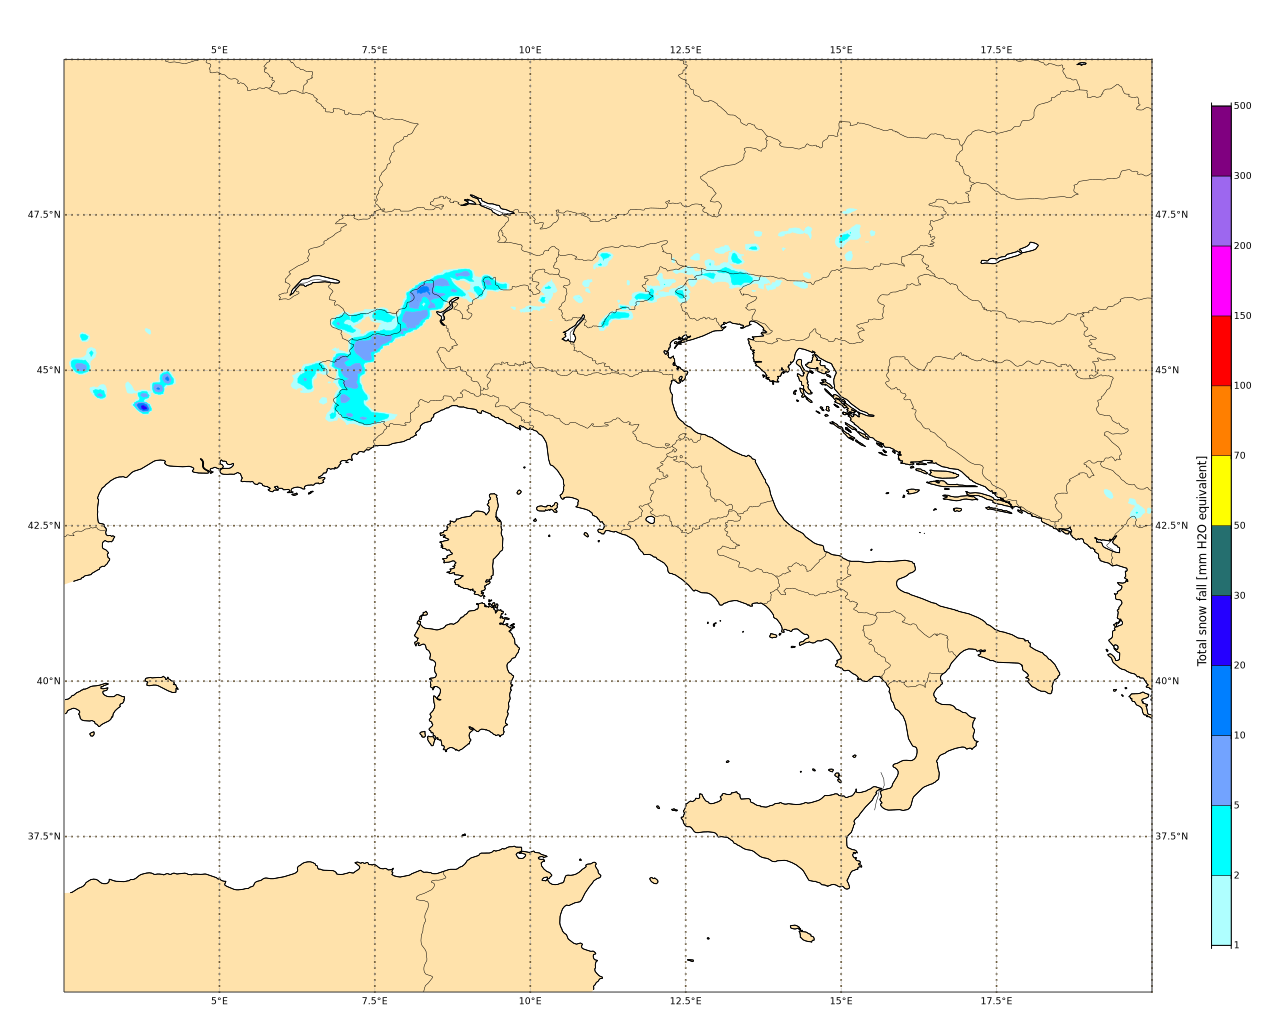
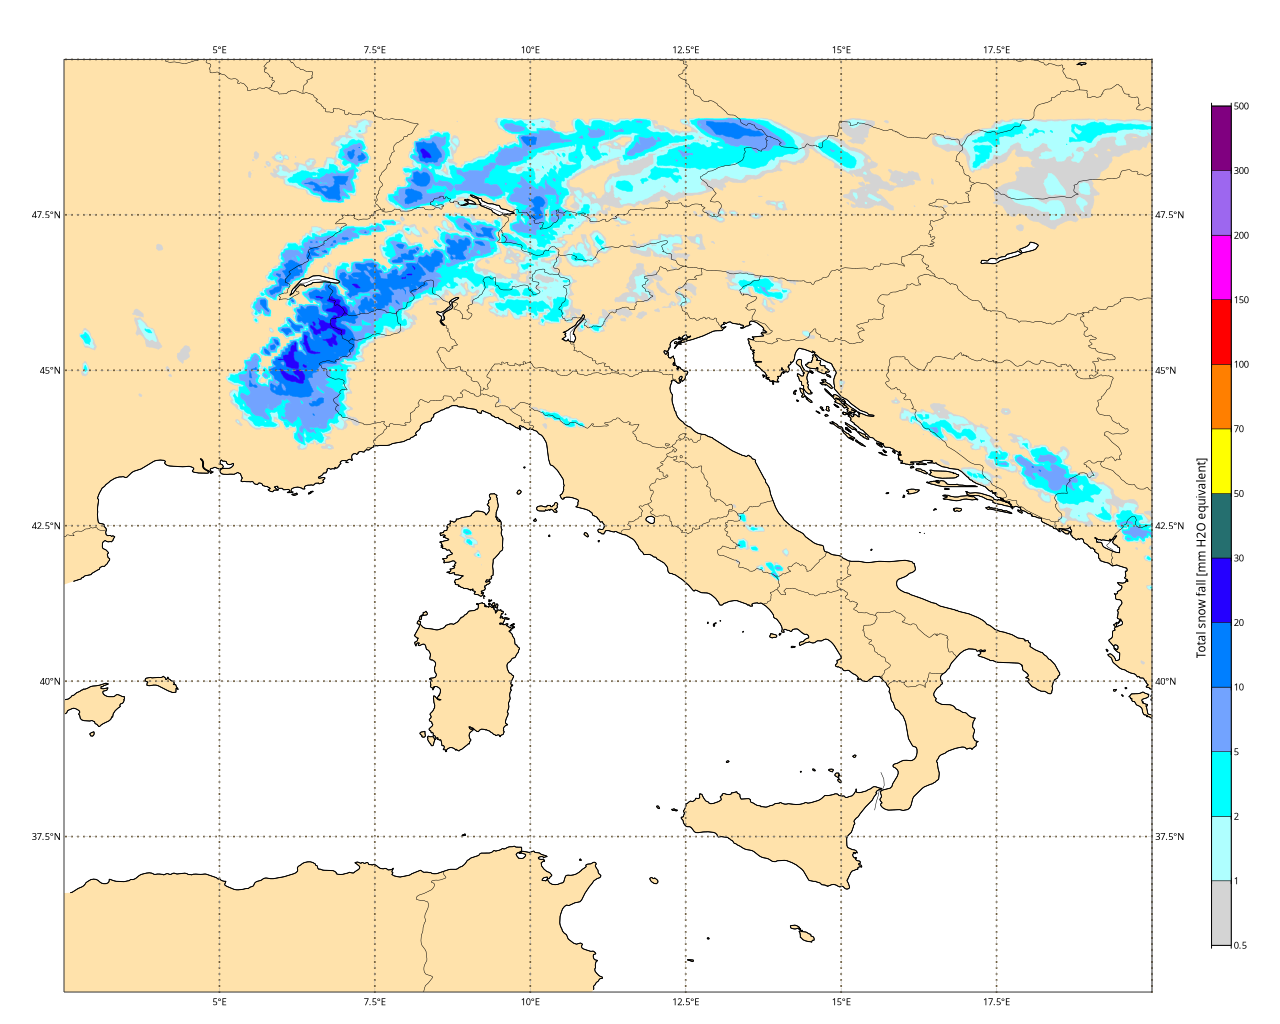
updated contouring for snow fall

diff --git a/doc/recipes/sf1h.md b/doc/recipes/sf1h.md
@@ -81,8 +81,9 @@ With arguments:
     "contour_shade": "on",
     "contour_shade_colour_method": "list",
     "contour_shade_method": "area_fill",
-    "contour_shade_min_level": 0.5,
+    "contour_shade_min_level": 0.1,
     "contour_level_list": [
+      0.1,
       0.5,
       1.0,
       2.0,
@@ -97,6 +98,7 @@ With arguments:
       200.0
     ],
     "contour_shade_colour_list": [
+      "rgb(0.83,0.83,0.83)",
       "rgb( 0.686,1.000,1.000)",
       "rgb( 0.000,1.000,1.000)",
       "rgb( 0.447,0.639,1.000)",

diff --git a/doc/recipes/sf3h.md b/doc/recipes/sf3h.md
@@ -81,8 +81,9 @@ With arguments:
     "contour_shade": "on",
     "contour_shade_colour_method": "list",
     "contour_shade_method": "area_fill",
-    "contour_shade_min_level": 0.5,
+    "contour_shade_min_level": 0.1,
     "contour_level_list": [
+      0.1,
       0.5,
       1.0,
       2.0,
@@ -97,6 +98,7 @@ With arguments:
       200.0
     ],
     "contour_shade_colour_list": [
+      "rgb(0.83,0.83,0.83)",
       "rgb( 0.686,1.000,1.000)",
       "rgb( 0.000,1.000,1.000)",
       "rgb( 0.447,0.639,1.000)",

diff --git a/doc/recipes/sf12h.md b/doc/recipes/sf12h.md
@@ -83,6 +83,7 @@ With arguments:
     "contour_shade_method": "area_fill",
     "contour_shade_min_level": 0.5,
     "contour_level_list": [
+      0.5,
       1.0,
       2.0,
       5.0,
@@ -98,6 +99,7 @@ With arguments:
       500.0
     ],
     "contour_shade_colour_list": [
+      "rgb(0.83,0.83,0.83)",
       "rgb( 0.686,1.000,1.000)",
       "rgb( 0.000,1.000,1.000)",
       "rgb( 0.447,0.639,1.000)",

diff --git a/doc/recipes/sf24h.md b/doc/recipes/sf24h.md
@@ -83,6 +83,7 @@ With arguments:
     "contour_shade_method": "area_fill",
     "contour_shade_min_level": 0.5,
     "contour_level_list": [
+      0.5,
       1.0,
       2.0,
       5.0,
@@ -98,6 +99,7 @@ With arguments:
       500.0
     ],
     "contour_shade_colour_list": [
+      "rgb(0.83,0.83,0.83)",
       "rgb( 0.686,1.000,1.000)",
       "rgb( 0.000,1.000,1.000)",
       "rgb( 0.447,0.639,1.000)",

diff --git a/doc/recipes/sf6h.md b/doc/recipes/sf6h.md
@@ -83,6 +83,7 @@ With arguments:
     "contour_shade_method": "area_fill",
     "contour_shade_min_level": 0.5,
     "contour_level_list": [
+      0.5,
       1.0,
       2.0,
       5.0,
@@ -98,6 +99,7 @@ With arguments:
       500.0
     ],
     "contour_shade_colour_list": [
+      "rgb(0.83,0.83,0.83)",
       "rgb( 0.686,1.000,1.000)",
       "rgb( 0.000,1.000,1.000)",
       "rgb( 0.447,0.639,1.000)",
